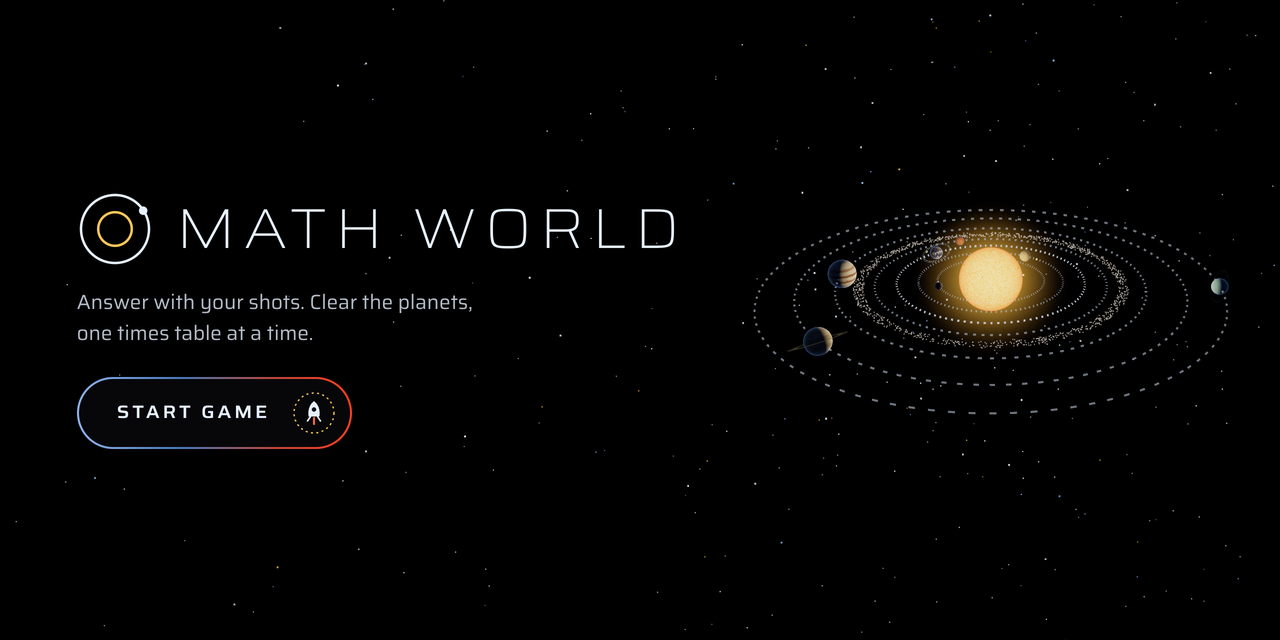
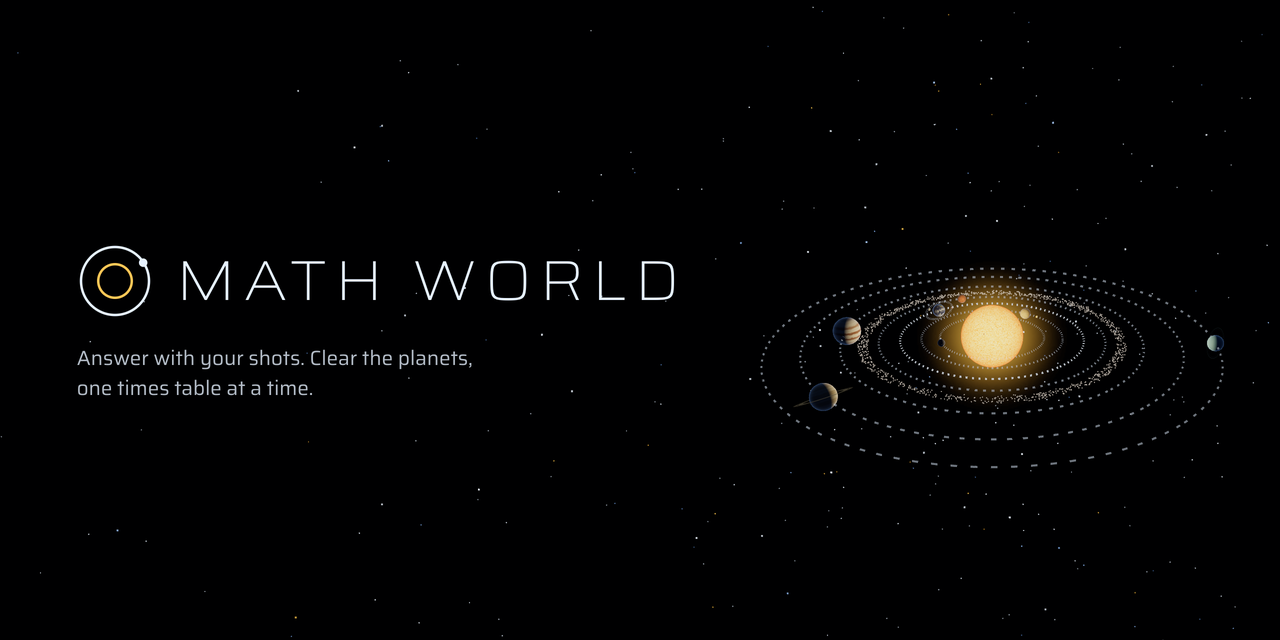
README as a short submission; the share card without the Start button
- README: what was asked and where to find it, a five-minute path, how it teaches, how it is built,
  how to run it, and what is not verified. The longer account moves to docs/architecture.md.
- The share card and the social preview are the title without its buttons, framed to the middle.
- STATE names main as the one version.

diff --git a/README.md b/README.md
@@ -41,134 +41,56 @@ It is for children from Grade 3 up, and for adults who do not want to be talked 
 </p>
 <p align="center"><sub>On a phone: the battle, the Power-Ups list, the Star map and the Resting Bay.</sub></p>
 
-## What a new cadet plays
+## What was asked, and where to find it
 
-1. **Title and sign-up (`/`).** One button, then a name and a colour.
-2. **The opening film (`/intro`).** A classroom, two quick questions, a knock at the door, and the cadet is called up by name. It ends on Launch. Skip is always there.
-3. **The first shot.** Three steps, one idea each: count the ships, type how many, press Fire.
-4. **Earth (`/play/earth`).** Times 0 and times 1. Clearing a planet opens the next one.
-5. **The Resting Bay (`/bay`).** The next mission and one Launch button, the cadet's ten times tables filling in, and the way to the other places.
-6. **The Star map (`/map`).** One planet a page: Earth, the Moon, Mars, the Asteroid Belt, Jupiter, Saturn, Uranus, Deep Space, with Mercury and Venus as adding and taking-away warm-ups.
-7. **The Hangar (`/hangar`), the Academy (`/academy`), flashcards and the daily patrol.** Orbs buy looks for the rocket; the Academy replays any trick on real ships; the patrol brings back facts that are due.
+- **A game that levels itself, from single digits up to multi-digit.** Mastery is tracked for each fact, and the next fleet is chosen from it. Eight missions run from times 0 and times 1 on Earth to multi-digit fleets in Deep Space. A bot harness plays five kinds of learner through the real code and checks where each ends up: [`docs/levelling-proof.md`](docs/levelling-proof.md).
+- **A visual and spoken "Show me how".** After a miss the game counts the squads with you, one at a time. "Show me how" walks a named trick over the fleet in front of you, out loud, and is shorter the second time.
+- **Progress saved to a database.** Every answer is appended to an event log in Postgres. Mastery, orbs and unlocks are all worked out from that log.
+- **Next.js and TypeScript.** Next.js 16, TypeScript, three.js for the battle and the film, Drizzle on Postgres, and more than 400 tests.
 
-A spotlight tour shows what each screen's controls are for on a first visit, and "How to play" sits behind the help button everywhere.
+## Try it in five minutes
+
+1. Sign up, then watch the film (under two minutes) or skip it, and take the guided first shot.
+2. On the Moon, miss on purpose, twice. The first miss counts the squads. The second counts the ships in a squad and offers a Power-Up. Then tap **Show me how**.
+3. Open `/play/jupiter?dev&a=12&b=14` for a multi-digit fleet.
+4. Open `/admin` for mastery by fact and the transfer rate (it needs `MW_ADMIN_KEY`).
+
+More shortcuts: `/?dev` lists every planet and screen, **Shift+D** in a battle opens live telemetry, and `/kit` is the design system.
 
 ## How it teaches
 
-- **The answer is the action.** There is no answer box and no multiple choice. The number you type is the number of plasma balls, shown on the rocket and on the Fire button. A miss is shown in the world: the ships left over, or the balls that flew past, with their counts.
-- **Structure is found, not printed.** Nothing is drawn on the fleet before the first answer. After a miss the game counts the squads one at a time; after a second miss it counts the ships in a squad and offers a Power-Up that fits; after a third, or whenever the child asks, Nova shows how.
-- **I do, we do, you do.** *Show me how* walks a named trick over the live fleet and ends on the child's own shot. The trick then becomes a Power-Up the child can use (it rearranges the fleet without giving the answer). Fast answers with no help turn a fact Gold.
-- **Tricks with children's names,** chosen by rule, not at random (`docs/tricks.md`): Empty & Mirror, Fast Adding, Flip It!, Double It!, Easy 5s & 10s, Jump One More, Split & Add, Borrow & Take Back, Big & Small Split, Half & Double.
-- **Base-10 ships.** Ten ships are a Pod, a hundred a Carrier, so `24 × 16` is a few dozen ships and place value is visible.
-- **No punishment.** No timers on screen, no streaks to lose, orbs are never taken away, and a miss line only says what happened.
-- **Rewards follow learning.** Orbs are worked out from the event log, never trusted from the browser: 5 for a wave cleared first try, 3 on a later try, 10 when a fact first turns Gold, 20 for a planet, 15 for the daily patrol, nothing for flashcards or warm-ups.
-- **Transfer is the number to watch.** Two waves after a trick is explained, the game serves a sister problem that needs the same trick. `/admin` compares first-try accuracy before and after the explanation.
+- **The answer is the action.** There is no answer box and no multiple choice. The number you type is the number of plasma balls.
+- **A miss shows itself.** Ships left over fly on, or extra balls fly past, with their counts.
+- **Structure is found, not printed.** Nothing is drawn on the fleet until you have answered. Hints come one step at a time, after a miss.
+- **Tricks become tools.** A trick you have watched becomes a Power-Up that rearranges the fleet without giving the answer.
+- **No punishment.** No timers, no streaks to lose, and orbs are earned only by learning.
 
-The reasoning behind these choices, the design language and the decisions made along the way are in `OVERHAUL.md`. The script for a child's first five minutes is `docs/teaching.md`.
+## How it is built
 
-## Levelling proof
+- **Event-sourced.** One append-only log of what the player did; all state is folded from it, and the database refuses to edit or delete a row.
+- **Code owns the maths.** Every split and answer comes from pure TypeScript and is checked by tests. Nothing is generated at runtime.
+- **Saves survive a bad connection.** Answers queue and retry, and a retried save is stored once.
+- **3D where it counts.** The battle and the film are 3D. Every other screen is 2D, in one design system.
+- **Built with Claude Code.** The brief for each round is [`OVERHAUL.md`](OVERHAUL.md), and the handoff note from every track is in [`docs/overhaul/`](docs/overhaul/).
 
-`bun run proof` plays 200 seeded runs of five bot profiles, 30 questions each, through the real fold and wave planner (`sim/`). The same claims are asserted in `tests/levelling.test.ts`. Full report: `docs/levelling-proof.md`.
-
-| Bot | Result |
-|---|---|
-| Struggling 3rd grader (knows ×0, ×1, ×2, ×5, ×10) | On Mars, its real frontier, at question 15 in 94.5% of runs; never beyond the Asteroid Belt |
-| Average 5th grader (all single-digit facts) | On Jupiter (2-digit × 1-digit) at question 15 in 91.5% of runs |
-| Adult speedrunner | Multi-digit by question 10 in 91% of runs; Uranus or Deep Space by question 15 in 88.5% |
-| Random masher | Beyond the Moon in 0.5% of runs; always gets the anti-mash nudge and easier waves |
-| Trick learner (stuck on hard ×9) | Needs Show me how on ×9 (95.5%), then passes the transfer check (92%) and moves past the Asteroid Belt by question 30 (98%) |
-
-A jump ahead needs a clean record: a Gold run, a Gold answer on a probe from the planet it would skip, at most one miss and no Show me how on the planet.
-
-## Architecture
-
-| Layer | Path | What it owns |
-|---|---|---|
-| **Rig** (pure TypeScript) | `src/rig/` | Planet pools, the error classifier, per-fact mastery, the Base-10 fleet, the trick router and its steps, the Show me how planner |
-| **Director** (pure TypeScript) | `src/director/` | `fold(events) → PlayerState`, the next wave, the orb ledger, the daily patrol, the Hangar catalogue, telemetry |
-| **Data** | `src/db/` | Drizzle schema (`players`, append-only `events`), the zod event contract, two drivers (Postgres, or PGlite on disk locally) |
-| **Battle** | `src/battle/`, `src/worlds/space/arena.ts` | A phase machine, the fleet, cannon, scans, hints, marks, camera |
-| **Engine** | `src/engine/` | The 3D stage, captions, audio (baked clips), live voice in a Web Worker, the save outbox |
-| **Teaching** | `src/teach/`, `src/components/teach/` | The guided first shot, tours, the Field Manual |
-| **Design system** | `src/design/tokens.ts`, `src/components/kit/` | One set of colours, type and motion; every control (see `/kit`) |
-| **App** | `src/app/`, `src/components/` | Thin Next.js 16 routes; React draws 2D screens and the battle's console over a full-screen stage |
-
-**Event-sourced.** Every action (`attempt_submitted`, `powerup_used`, `explanation_started`, `upgrade_purchased`, `patrol_completed`, …) is appended to `/api/events`. Correctness is recomputed on the server. All state, from mastery to orbs to the Hangar, is `fold(events)`. A database trigger rejects `UPDATE`, `DELETE` and `TRUNCATE` on the log.
-
-**Saves that survive a bad connection.** Answers go through an outbox that queues, retries and marks "Not saved yet". Each event carries a client id, and a unique index stores an id once for a cadet, so a retried save is never counted twice, on any server instance.
-
-**Code owns the maths.** Every partial product, split and answer comes from `src/rig/` and is asserted by tests (`tests/rig.test.ts` fuzzes every trick across `0–999 × 0–99`). Words come from `docs/tricks.md`. Nothing is generated at runtime.
-
-**Voice.** Fixed lines are baked into `public/vo/` (`scripts/bake-voices.py`), and a test ties every clip to its caption. A line with the cadet's name is spoken live by `phonon-tts` in a browser Web Worker, never on the server.
-
-**2D and 3D.** The battle and the film are 3D (three.js). Everything else is 2D, in one design language: one black, gold for the thing that matters, hairline circles and dashed orbits.
+The layers, the levelling numbers, telemetry and deployment are in [`docs/architecture.md`](docs/architecture.md).
 
 ## Run it
 
 ```bash
 bun install
 bun run dev      # http://localhost:3200
-bun run check    # route types, typecheck, lint, tests
+bun run check    # types, lint and tests
 bun run build    # production build
-bun run proof    # regenerate docs/levelling-proof.md
 ```
 
-Locally the database is PGlite in `.data/pg`, created and migrated on first use (delete the folder to start fresh). Set `DATABASE_URL` to use Postgres.
+Locally the database is PGlite in `.data/pg`, created on first use. Set `DATABASE_URL` to use Postgres. To deploy on Vercel with Supabase, see [`docs/architecture.md`](docs/architecture.md#deploy-vercel-and-supabase).
 
-### Shortcuts for a reviewer
+## Status
 
-- `/?dev` lists every planet and screen.
-- `/play/<planet>?dev` starts a practice battle on any planet; add `&a=6&b=7` to choose the fleet (`/play/jupiter?dev&a=12&b=14`).
-- `/intro?dev` has a chapter dock for the film.
-- **Shift+D** in a battle opens the live telemetry X-Ray: mastery for each fact, the error in play, the transfer-check queue.
-- `/kit` is the design system. `/dev/cast`, `/dev/ships`, `/dev/planets` and `/dev/console` are review pages for the art and the console.
-- `/admin` is the testing dashboard (see below).
-
-## Telemetry and testing
-
-- **`/admin`** is not linked from the game. Set `MW_ADMIN_KEY` (10 characters or more) on the server, open `/admin` and enter it. With no key set, `/admin` is off. It shows each cadet's mastery, planet progress, rates by trick, the transfer rate, the orb ledger and day-2 return.
-- **`docs/test-protocol.md`** is how to run 3 to 5 children and one adult silently, what to watch, and how to read `/admin` before and after.
-
-## Deploy (Vercel and Supabase)
-
-1. **Supabase:** create a project. From *Connect*, copy the **transaction pooler** URL (port 6543) as `DATABASE_URL`, and the **session pooler** URL (port 5432) as `MIGRATION_DATABASE_URL`.
-2. **Vercel:** import the repository (it is detected as Next.js) and add both variables for Production and Preview, plus `MW_ADMIN_KEY` to turn on `/admin`. `vercel.json` installs with Bun and runs `scripts/migrate.mjs` before `next build`, so every deploy migrates the database first. Keep the function region next to the database.
-3. **Smoke test:**
-   ```bash
-   curl -c jar -X POST -H 'content-type: application/json' -d '{"name":"Test"}' https://<app>/api/player
-   curl -b jar -X POST -H 'content-type: application/json' -d '{"type":"intro_completed","payload":{}}' https://<app>/api/events
-   curl -b jar https://<app>/api/player   # introCompleted: true
-   ```
-
-Row Level Security is on for both tables with no policies, so only the server's own database role can read or write them.
-
-## How it was built
-
-With Claude Code, run as a small studio. Each round had a written brief (`OVERHAUL.md`): the learning model, the design language, closed decisions, and which files each track owns. Builders worked in parallel, each in its own git worktree and branch. Testers then played the merged build as brand-new players on desktop and phone sizes and reported findings with steps and evidence, and a fix pass closed them. The handoff note from every track is in `docs/overhaul/`, and `STATE.md` records what is verified and what is not.
-
-## What is verified, and what is not
-
-- **Verified:** `bun run check` (types, lint and the test suite) and the production build. The Postgres path end to end against a local Postgres 16: migrations, build, every route, sign-up, saves, and a retried save stored once across a server restart. Play-throughs by test agents at desktop and phone sizes.
-- **Not yet:** no child has played it. The field notes below are empty until they have.
-- **Not yet:** sound was checked by measurement (each clip's length, loudness and words), not by ear, in the latest rounds.
+- **Verified:** the checks and the production build; the hosted-database path against a local Postgres; play-throughs by test agents at desktop and phone sizes.
+- **Not yet:** no child has played it.
+- **Not yet:** in the latest rounds the sound was checked by measurement, not by ear.
 - **Not yet:** a real phone and Safari. Phone sizes were checked in a desktop browser.
-- **Known gaps** are listed in `STATE.md`.
 
-## Field notes
-
-_To be written after sessions with real children. For each session: the date, the testers (age only, no names), the top three friction points and what changed for each, and the `/admin` numbers before and after._
-
-| Date | Testers | Top friction points | Fix (commit) | Transfer checks | Before → after a lesson | Day-2 returns |
-|---|---|---|---|---|---|---|
-| | | | | | | |
-
-## Docs
-
-- `OVERHAUL.md`: the brief. The learning model, the design language, the decisions.
-- `PRODUCT.md`, `DESIGN.md`: who it is for, and the design system in words.
-- `SPEC.md`: the original product, pedagogy, audio and database specification (its visual sections are superseded by `OVERHAUL.md`).
-- `docs/teaching.md`: a child's first five minutes, step by step.
-- `docs/tricks.md`: the trick scripts and the rule that picks one.
-- `docs/levelling-proof.md`: the bot harness report.
-- `docs/test-protocol.md`: the silent test with real children.
-- `docs/overhaul/`: the handoff note from every track of every round.
+Known gaps are listed in [`STATE.md`](STATE.md).

diff --git a/docs/architecture.md b/docs/architecture.md
@@ -1,0 +1,83 @@
+# How Math World is built
+
+The longer account behind the README: what a new cadet plays, how the game teaches, the layers of the code, the levelling proof, telemetry and deployment.
+
+## What a new cadet plays
+
+1. **Title and sign-up (`/`).** One button, then a name and a colour.
+2. **The opening film (`/intro`).** A classroom, two quick questions, a knock at the door, and the cadet is called up by name. It ends on Launch. Skip is always there.
+3. **The first shot.** Three steps, one idea each: count the ships, type how many, press Fire.
+4. **Earth (`/play/earth`).** Times 0 and times 1. Clearing a planet opens the next one.
+5. **The Resting Bay (`/bay`).** The next mission and one Launch button, the cadet's ten times tables filling in, and the way to the other places.
+6. **The Star map (`/map`).** One planet a page: Earth, the Moon, Mars, the Asteroid Belt, Jupiter, Saturn, Uranus, Deep Space, with Mercury and Venus as adding and taking-away warm-ups.
+7. **The Hangar (`/hangar`), the Academy (`/academy`), flashcards and the daily patrol.** Orbs buy looks for the rocket; the Academy replays any trick on real ships; the patrol brings back facts that are due.
+
+A spotlight tour shows what each screen's controls are for on a first visit, and "How to play" sits behind the help button everywhere.
+
+## How it teaches
+
+- **The answer is the action.** There is no answer box and no multiple choice. The number you type is the number of plasma balls, shown on the rocket and on the Fire button. A miss is shown in the world: the ships left over, or the balls that flew past, with their counts.
+- **Structure is found, not printed.** Nothing is drawn on the fleet before the first answer. After a miss the game counts the squads one at a time; after a second miss it counts the ships in a squad and offers a Power-Up that fits; after a third, or whenever the child asks, Nova shows how.
+- **I do, we do, you do.** *Show me how* walks a named trick over the live fleet and ends on the child's own shot. The trick then becomes a Power-Up the child can use (it rearranges the fleet without giving the answer). Fast answers with no help turn a fact Gold.
+- **Tricks with children's names,** chosen by rule, not at random (`docs/tricks.md`): Empty & Mirror, Fast Adding, Flip It!, Double It!, Easy 5s & 10s, Jump One More, Split & Add, Borrow & Take Back, Big & Small Split, Half & Double.
+- **Base-10 ships.** Ten ships are a Pod, a hundred a Carrier, so `24 × 16` is a few dozen ships and place value is visible.
+- **No punishment.** No timers on screen, no streaks to lose, orbs are never taken away, and a miss line only says what happened.
+- **Rewards follow learning.** Orbs are worked out from the event log, never trusted from the browser: 5 for a wave cleared first try, 3 on a later try, 10 when a fact first turns Gold, 20 for a planet, 15 for the daily patrol, nothing for flashcards or warm-ups.
+- **Transfer is the number to watch.** Two waves after a trick is explained, the game serves a sister problem that needs the same trick. `/admin` compares first-try accuracy before and after the explanation.
+
+The reasoning behind these choices, the design language and the decisions made along the way are in `OVERHAUL.md`. The script for a child's first five minutes is `docs/teaching.md`.
+
+## Architecture
+
+| Layer | Path | What it owns |
+|---|---|---|
+| **Rig** (pure TypeScript) | `src/rig/` | Planet pools, the error classifier, per-fact mastery, the Base-10 fleet, the trick router and its steps, the Show me how planner |
+| **Director** (pure TypeScript) | `src/director/` | `fold(events) → PlayerState`, the next wave, the orb ledger, the daily patrol, the Hangar catalogue, telemetry |
+| **Data** | `src/db/` | Drizzle schema (`players`, append-only `events`), the zod event contract, two drivers (Postgres, or PGlite on disk locally) |
+| **Battle** | `src/battle/`, `src/worlds/space/arena.ts` | A phase machine, the fleet, cannon, scans, hints, marks, camera |
+| **Engine** | `src/engine/` | The 3D stage, captions, audio (baked clips), live voice in a Web Worker, the save outbox |
+| **Teaching** | `src/teach/`, `src/components/teach/` | The guided first shot, tours, the Field Manual |
+| **Design system** | `src/design/tokens.ts`, `src/components/kit/` | One set of colours, type and motion; every control (see `/kit`) |
+| **App** | `src/app/`, `src/components/` | Thin Next.js 16 routes; React draws 2D screens and the battle's console over a full-screen stage |
+
+**Event-sourced.** Every action (`attempt_submitted`, `powerup_used`, `explanation_started`, `upgrade_purchased`, `patrol_completed`, …) is appended to `/api/events`. Correctness is recomputed on the server. All state, from mastery to orbs to the Hangar, is `fold(events)`. A database trigger rejects `UPDATE`, `DELETE` and `TRUNCATE` on the log.
+
+**Saves that survive a bad connection.** Answers go through an outbox that queues, retries and marks "Not saved yet". Each event carries a client id, and a unique index stores an id once for a cadet, so a retried save is never counted twice, on any server instance.
+
+**Code owns the maths.** Every partial product, split and answer comes from `src/rig/` and is asserted by tests (`tests/rig.test.ts` fuzzes every trick across `0–999 × 0–99`). Words come from `docs/tricks.md`. Nothing is generated at runtime.
+
+**Voice.** Fixed lines are baked into `public/vo/` (`scripts/bake-voices.py`), and a test ties every clip to its caption. A line with the cadet's name is spoken live by `phonon-tts` in a browser Web Worker, never on the server.
+
+**2D and 3D.** The battle and the film are 3D (three.js). Everything else is 2D, in one design language: one black, gold for the thing that matters, hairline circles and dashed orbits.
+
+## Levelling proof
+
+`bun run proof` plays 200 seeded runs of five bot profiles, 30 questions each, through the real fold and wave planner (`sim/`). The same claims are asserted in `tests/levelling.test.ts`. Full report: `docs/levelling-proof.md`.
+
+| Bot | Result |
+|---|---|
+| Struggling 3rd grader (knows ×0, ×1, ×2, ×5, ×10) | On Mars, its real frontier, at question 15 in 94.5% of runs; never beyond the Asteroid Belt |
+| Average 5th grader (all single-digit facts) | On Jupiter (2-digit × 1-digit) at question 15 in 91.5% of runs |
+| Adult speedrunner | Multi-digit by question 10 in 91% of runs; Uranus or Deep Space by question 15 in 88.5% |
+| Random masher | Beyond the Moon in 0.5% of runs; always gets the anti-mash nudge and easier waves |
+| Trick learner (stuck on hard ×9) | Needs Show me how on ×9 (95.5%), then passes the transfer check (92%) and moves past the Asteroid Belt by question 30 (98%) |
+
+A jump ahead needs a clean record: a Gold run, a Gold answer on a probe from the planet it would skip, at most one miss and no Show me how on the planet.
+
+## Telemetry and testing
+
+- **`/admin`** is not linked from the game. Set `MW_ADMIN_KEY` (10 characters or more) on the server, open `/admin` and enter it. With no key set, `/admin` is off. It shows each cadet's mastery, planet progress, rates by trick, the transfer rate, the orb ledger and day-2 return.
+- **`docs/test-protocol.md`** is how to run 3 to 5 children and one adult silently, what to watch, and how to read `/admin` before and after.
+
+## Deploy (Vercel and Supabase)
+
+1. **Supabase:** create a project. From *Connect*, copy the **transaction pooler** URL (port 6543) as `DATABASE_URL`, and the **session pooler** URL (port 5432) as `MIGRATION_DATABASE_URL`.
+2. **Vercel:** import the repository (it is detected as Next.js) and add both variables for Production and Preview, plus `MW_ADMIN_KEY` to turn on `/admin`. `vercel.json` installs with Bun and runs `scripts/migrate.mjs` before `next build`, so every deploy migrates the database first. Keep the function region next to the database.
+3. **Smoke test:**
+   ```bash
+   curl -c jar -X POST -H 'content-type: application/json' -d '{"name":"Test"}' https://<app>/api/player
+   curl -b jar -X POST -H 'content-type: application/json' -d '{"type":"intro_completed","payload":{}}' https://<app>/api/events
+   curl -b jar https://<app>/api/player   # introCompleted: true
+   ```
+
+Row Level Security is on for both tables with no policies, so only the server's own database role can read or write them.

diff --git a/STATE.md b/STATE.md
@@ -1,6 +1,6 @@
-# STATE: mathworld, branch `overhaul/void-and-gold`
+# STATE: mathworld, branch `main`
 
-_Updated 26 Nov 2026, after the review round's fix pass. `main` still holds the previous version, untouched._
+_Updated 26 Nov 2026, after the review round, the shipping work and the repository clean-up. `main` is the one version: every round is merged into it and the working branches are gone._
 
 ## What changed
 - **Review round** (the owner's seven points in `OVERHAUL.md` "Review round"). Five tracks merged; their notes are `docs/overhaul/r1-*.md`, indexed in `docs/overhaul/README.md`. Six testers then judged the merged build, and this fix pass followed:
